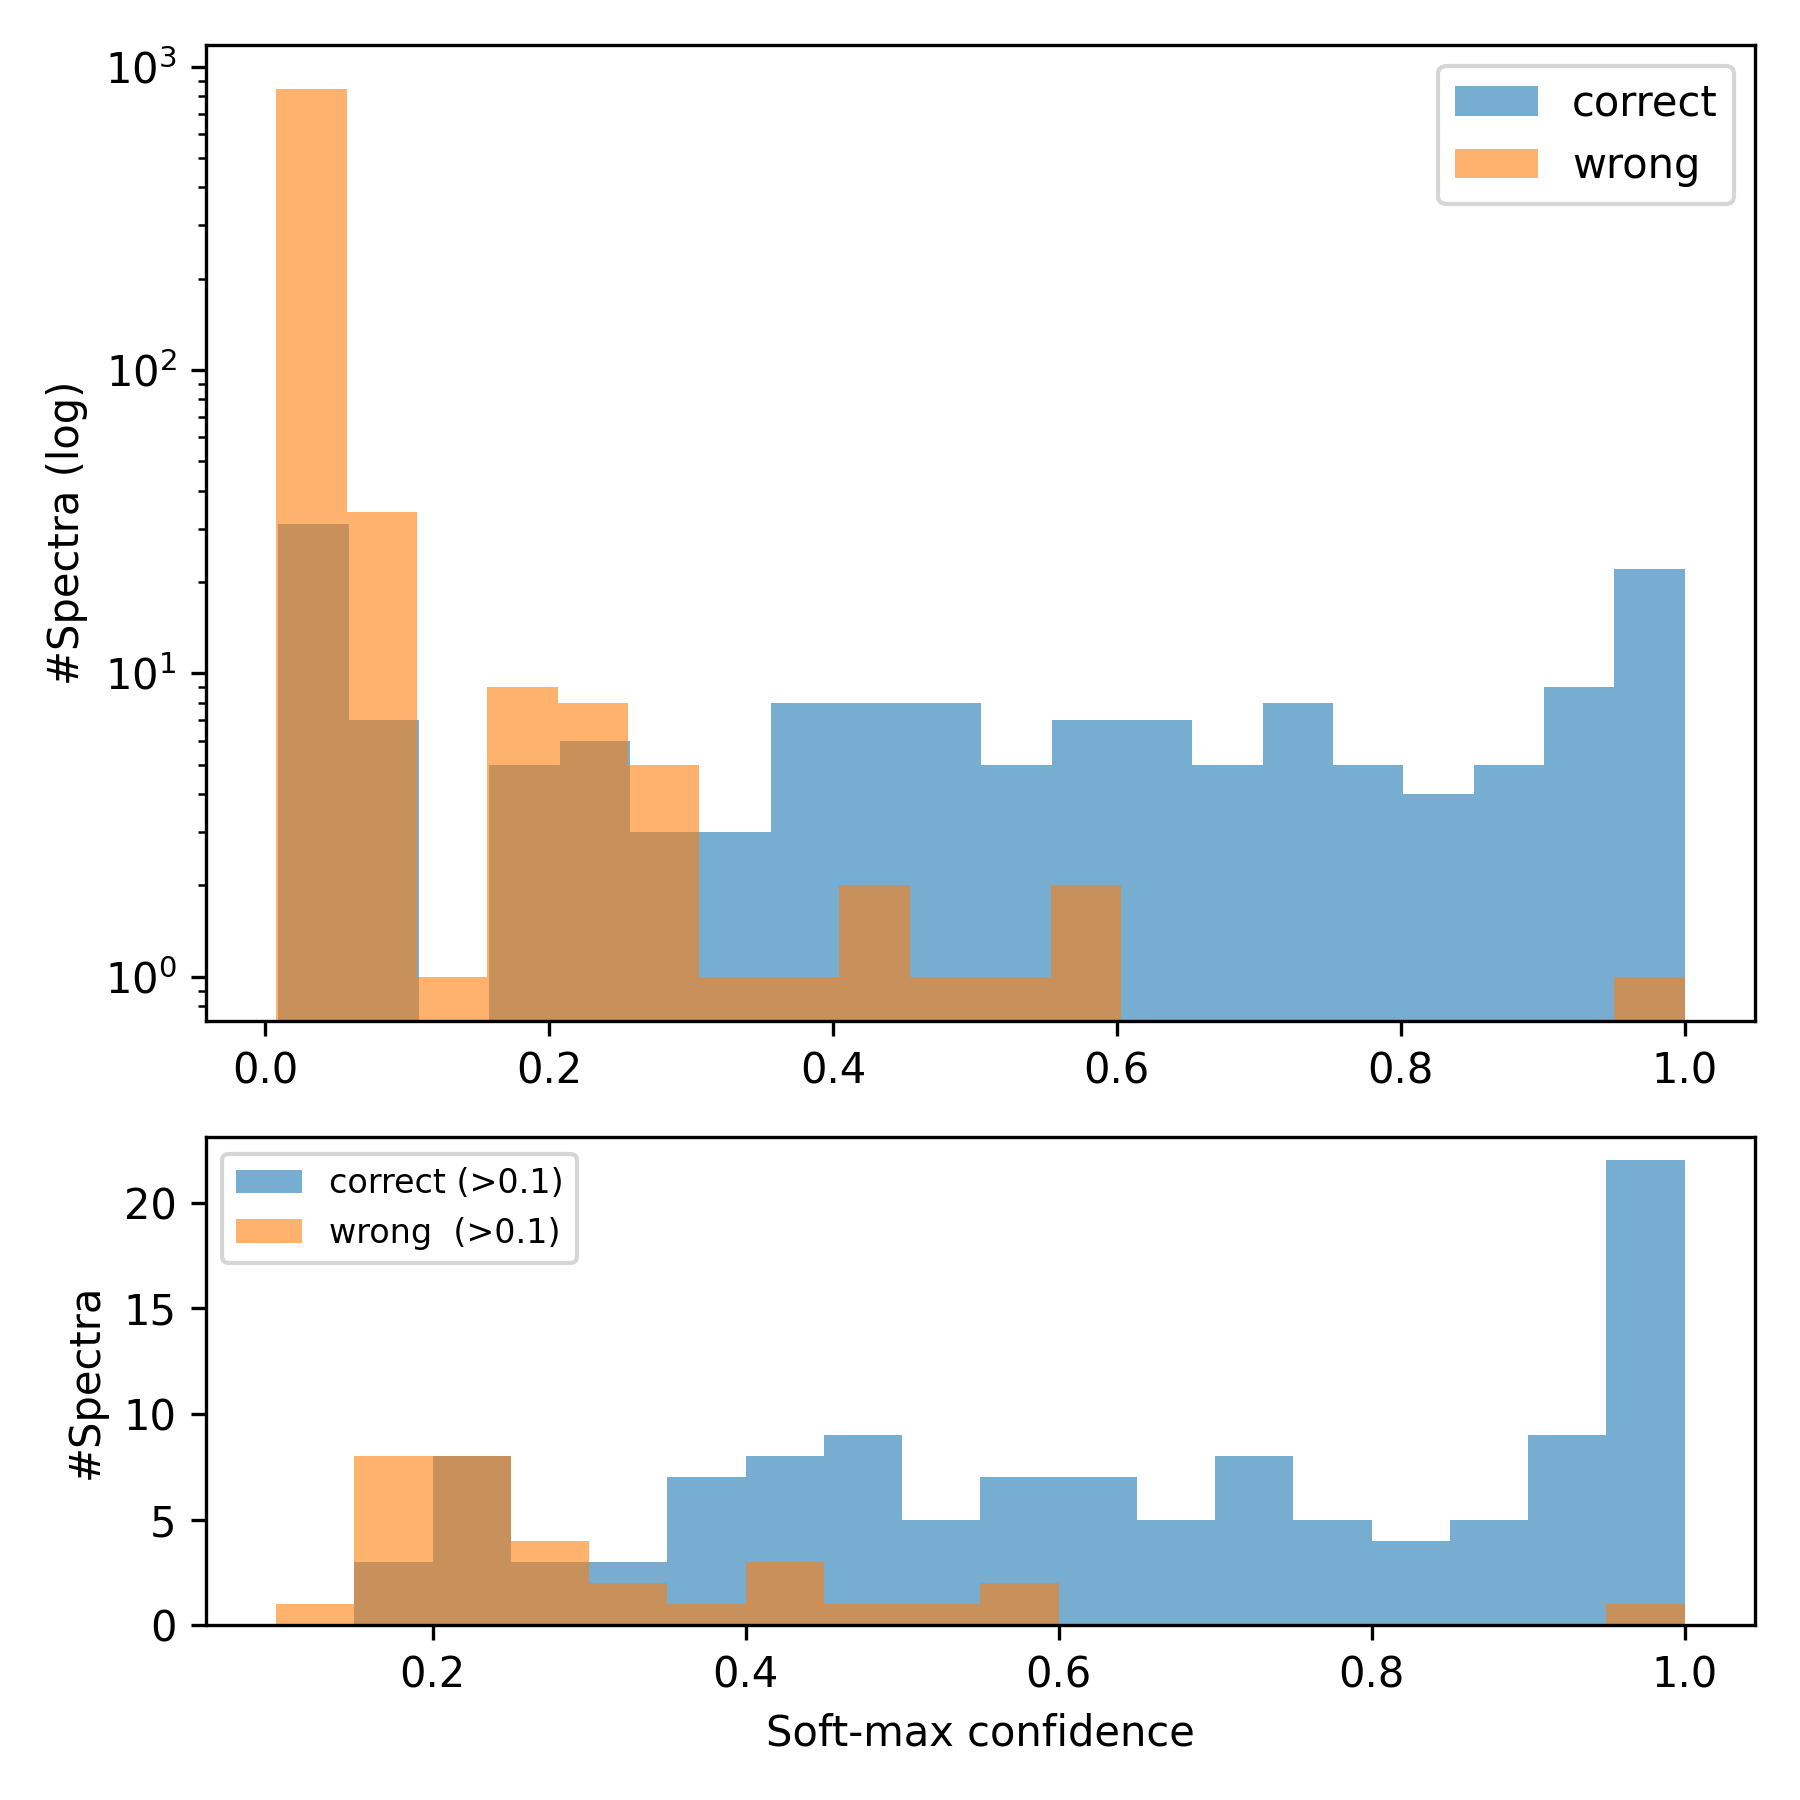
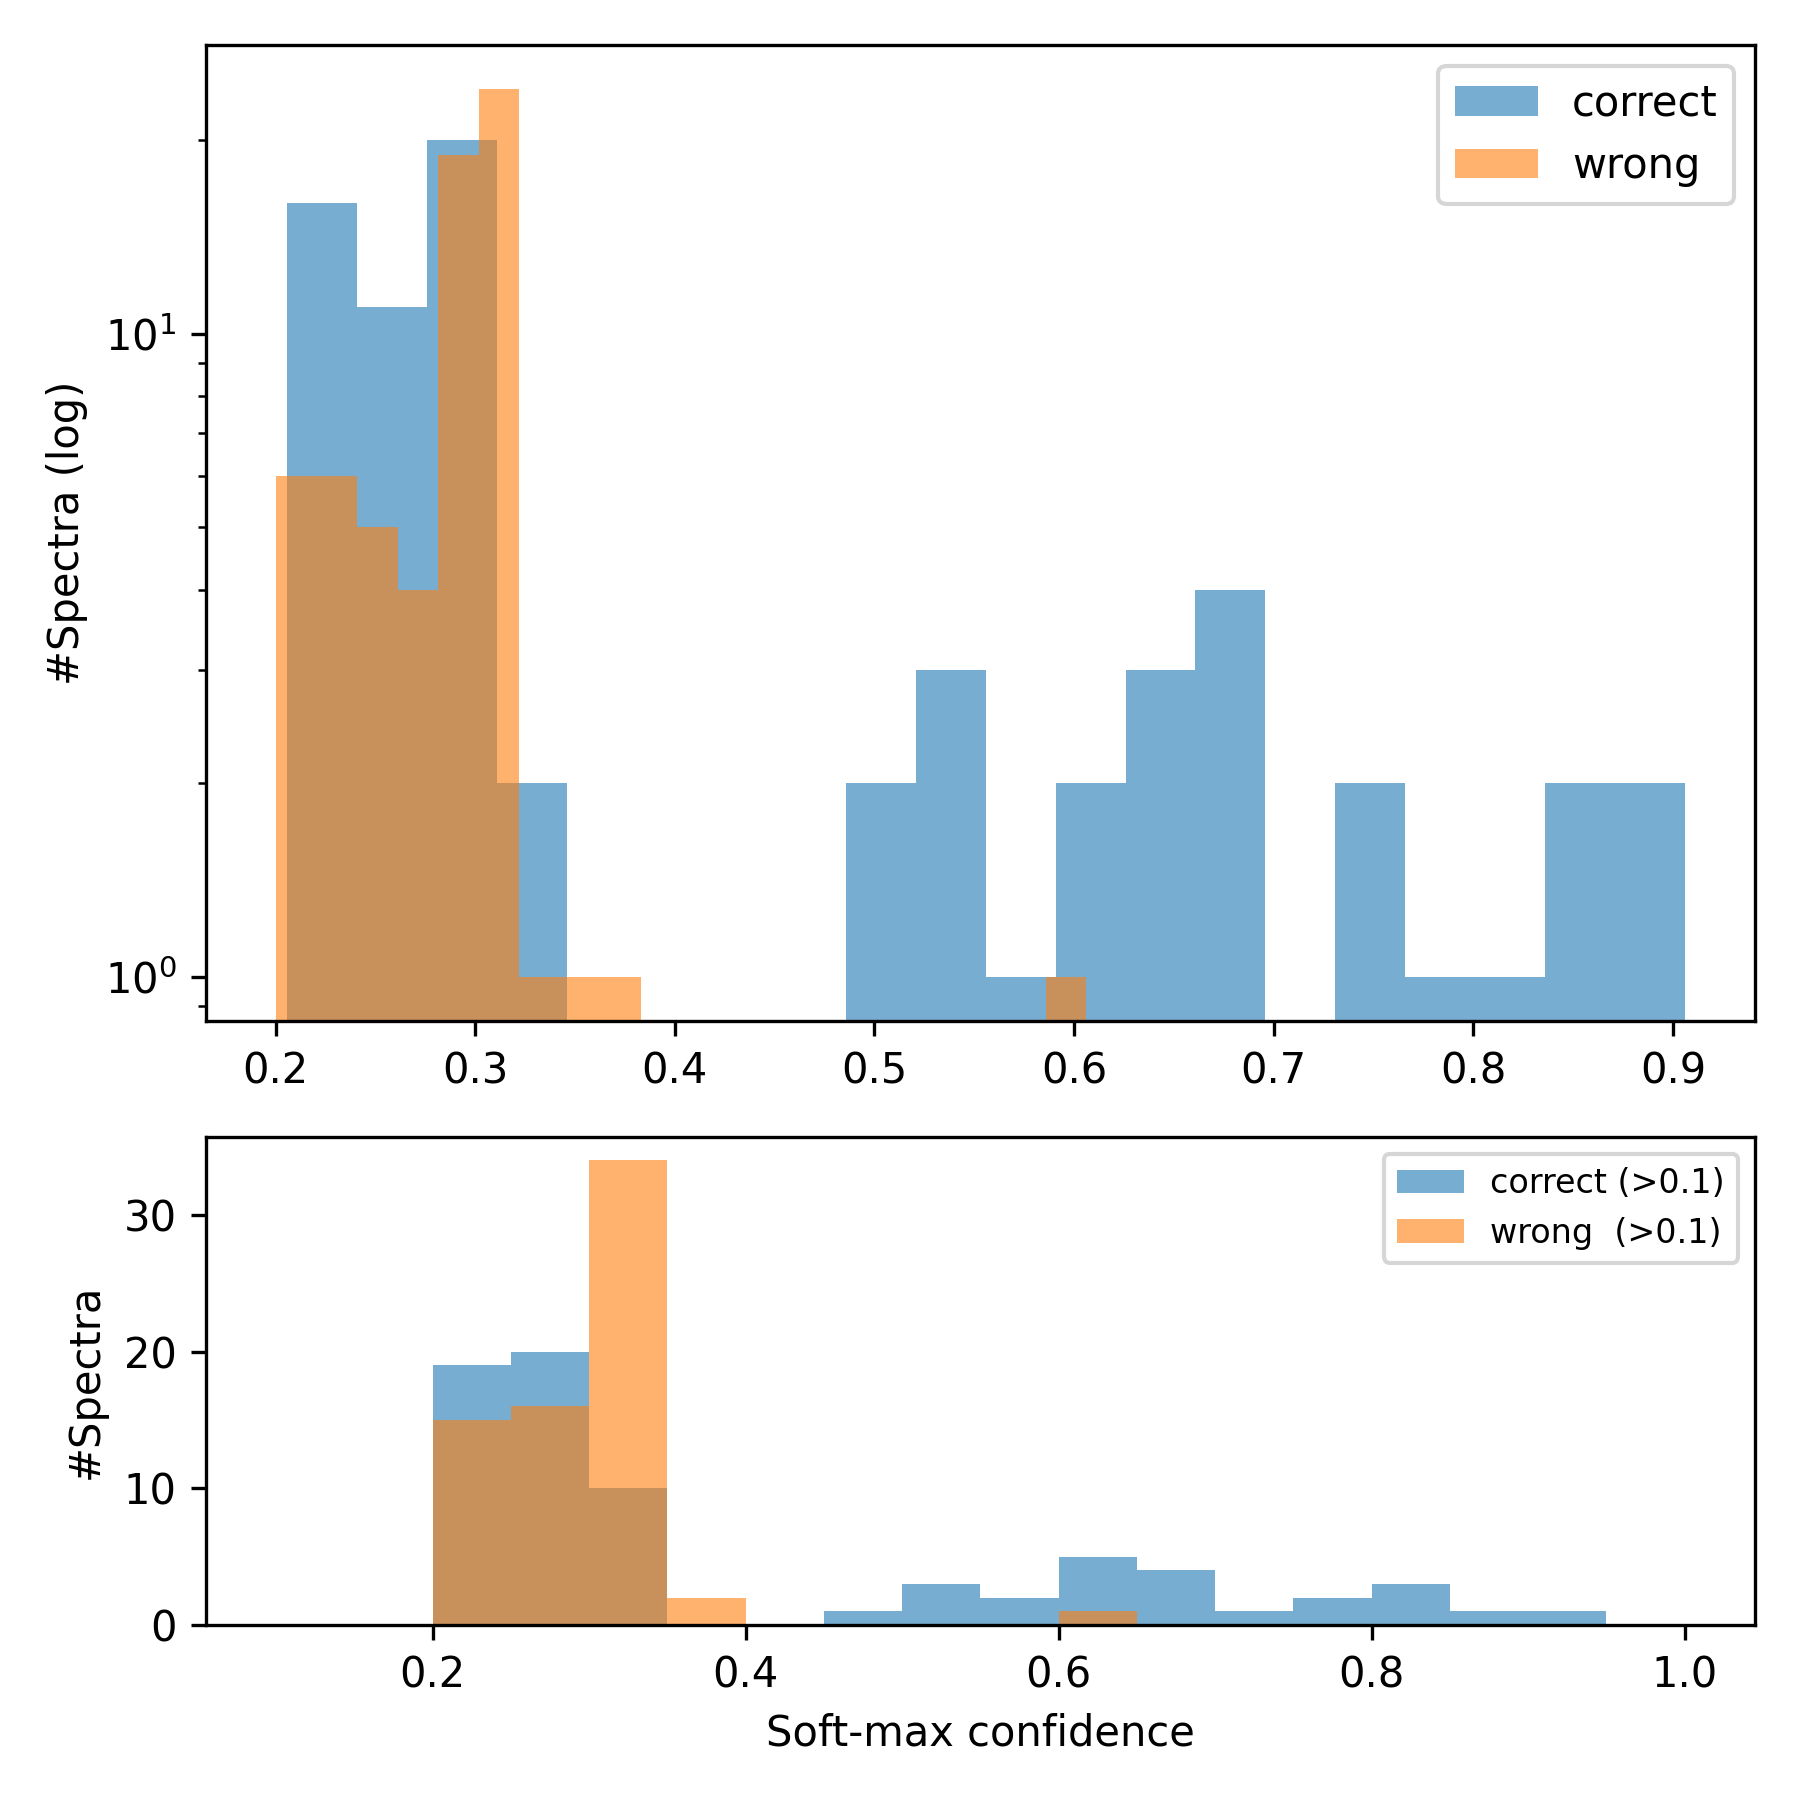
test50

diff --git a/scripts/make_confmat.py b/scripts/make_confmat.py
@@ -14,12 +14,12 @@ results/conf_matrix_subset.png   – row-normalised heat-map
 
 
 SUBSET_NAMES = [  
-    "Quartz", "Calcite", "Forsterite", "Tremolite", "Anhydrite",
-    "Dolomite", "Gypsum", "Halite", "Hematite", "Goethite",
-    "Magnetite", "Pyrite", "Siderite", "Aragonite", "Albite",
-    "Kyanite", "Muscovite", "Hematite", "Goethite", "Magnetite", "Pyrite",
+    #"Quartz", "Calcite", "Forsterite", "Tremolite", "Anhydrite",
+    #"Dolomite", "Gypsum", "Halite", "Hematite", "Goethite",
+    #"Magnetite", "Pyrite", "Siderite", "Aragonite", "Albite",
+    #"Kyanite", "Muscovite", "Hematite", "Goethite", "Magnetite", "Pyrite",
 ]
-TOP_N = 0            
+TOP_N = 266           
 
 from pathlib import Path
 import numpy as np, pandas as pd, matplotlib.pyplot as plt, torch

diff --git a/raman_ddpm/dataset.py b/raman_ddpm/dataset.py
@@ -6,8 +6,8 @@ from sklearn.model_selection import train_test_split
 
 REAL_ROOT = Path("data/processed")  
 SYN_ROOT  = Path("data/synthetic")  
-N_REAL    = 10                   
-N_SYN     = 10 
+N_REAL    = 50                   
+N_SYN     = 50
 
 def _gather_files():
     """
